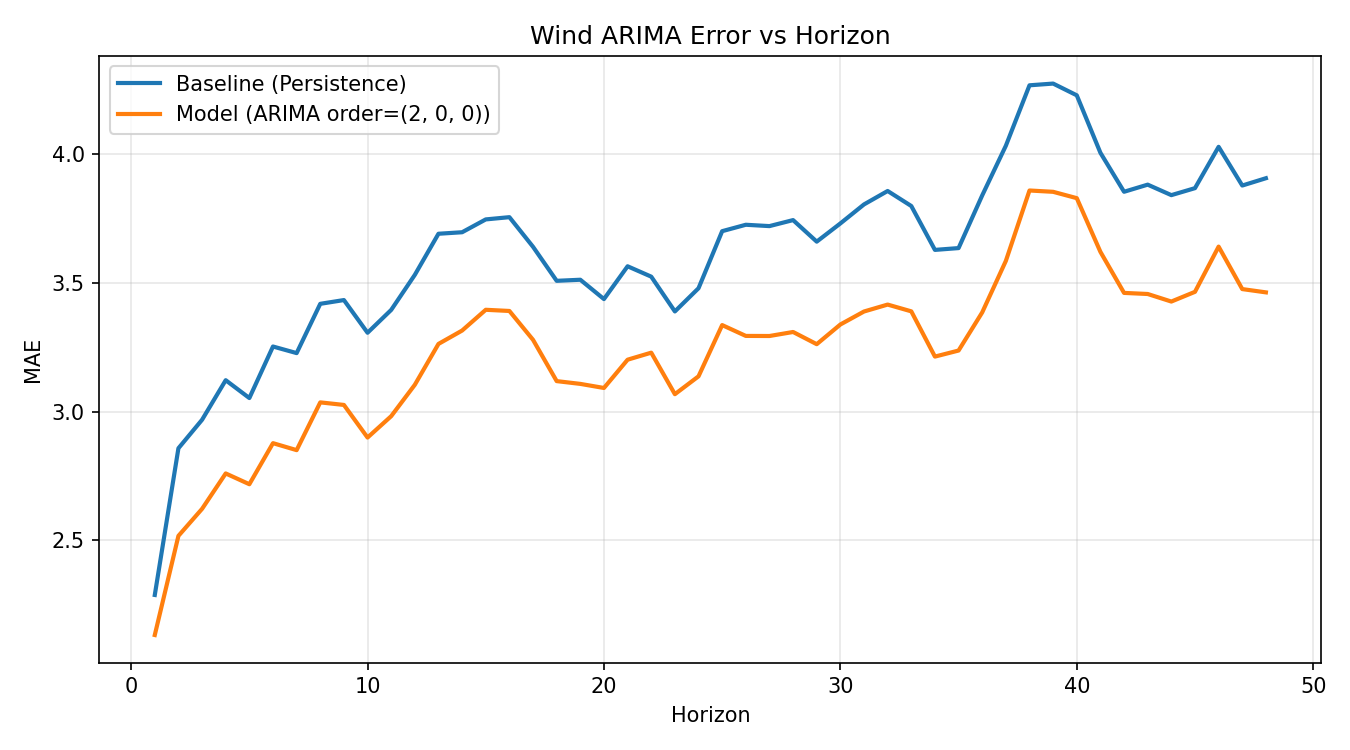
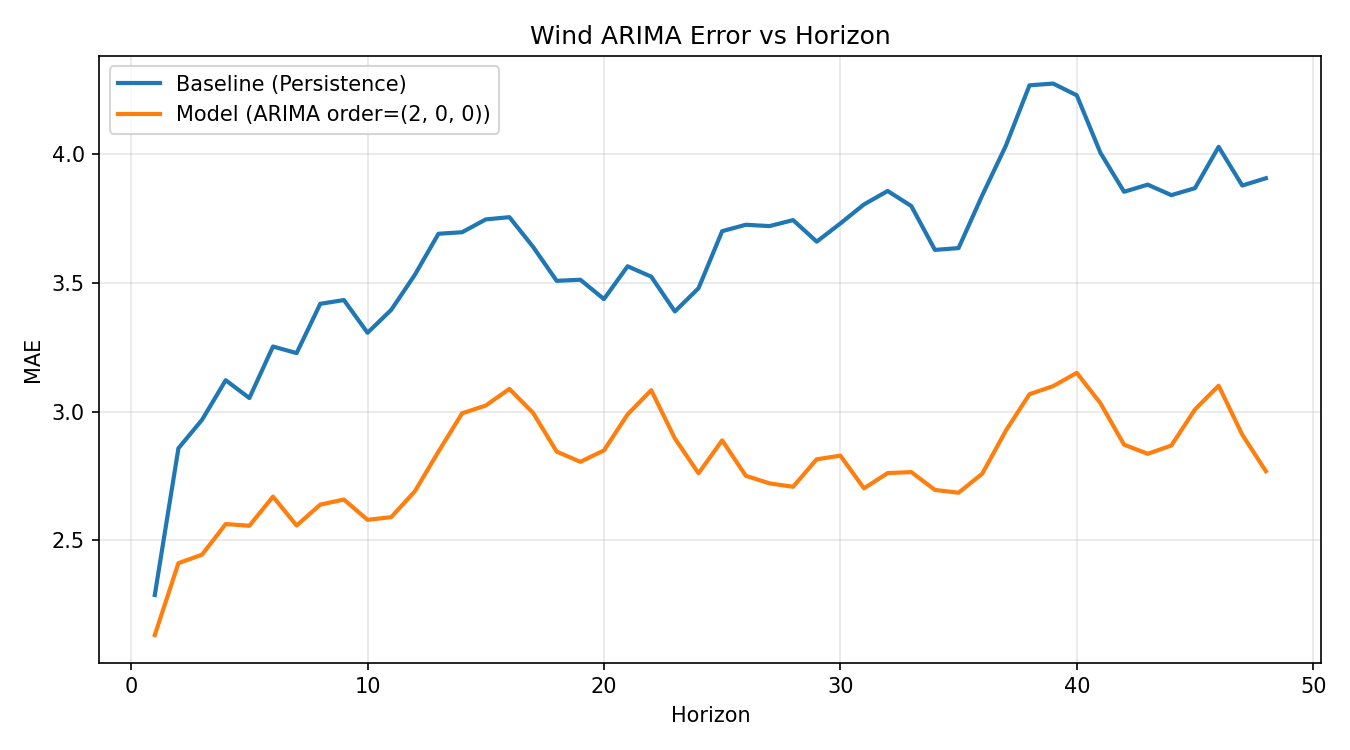
Fix wind ARIMA h-step alignment: forecast steps=h instead of steps=1
The wind ARIMA adapter called forecast(steps=1) at every horizon, so for h>1 a
1-step forecast was compared with the h-step target. Mirror the horizon-aligned
evaluation already used for traffic. Wind descriptors are unchanged
(H*(relax)=H*(strict)=48, [1,48], no sign changes); skill amplitude changes
(0.068-0.291 instead of 0.068-0.123). Results independently reproduced to 6e-10
in diagnostics/arima_wind_hstep.

diff --git a/experiments/wind_arima_canonical_predictability.py b/experiments/wind_arima_canonical_predictability.py
@@ -33,8 +33,9 @@ def load_wind_module():
 class ARIMAAdapter:
     """Drop-in replacement for the LightGBM estimator interface used in wind pipeline."""
 
-    def __init__(self, **kwargs):
+    def __init__(self, horizon=1, **kwargs):
         self._fitted = None
+        self.horizon = max(1, int(horizon))
 
     def fit(self, x_train, y_train):
         y = pd.Series(y_train).dropna().astype(float)
@@ -52,8 +53,46 @@ class ARIMAAdapter:
             raise ValueError("Model not fitted")
         with warnings.catch_warnings():
             warnings.simplefilter("ignore")
-            forecast = self._fitted.forecast(steps=1)
+            forecast = self._fitted.forecast(steps=self.horizon)
         return np.array([float(forecast.iloc[-1])])
+
+
+def _arima_factory_for_horizon(h: int):
+    def _factory(**kwargs):
+        return ARIMAAdapter(horizon=h, **kwargs)
+
+    return _factory
+
+
+def evaluate_horizon_aligned_arima(wind, series: pd.Series):
+    """Reuse canonical evaluator per horizon while injecting ARIMA with matching forecast step.
+
+    Mirrors evaluate_horizon_aligned_arima in traffic_arima_canonical_predictability.py.
+    Fixes a horizon-alignment bug in the original adapter, which always called
+    forecast(steps=1) regardless of h, so for h>1 it compared a 1-step-ahead
+    forecast against the true h-step-ahead target.
+    """
+    horizons_out = []
+    baseline_out = []
+    model_out = []
+
+    original_estimator = wind.LGBMRegressor
+    try:
+        for h in wind.HORIZONS:
+            h = int(h)
+            wind.LGBMRegressor = _arima_factory_for_horizon(h)
+            h_arr, baseline_h, model_h = wind.evaluate_rolling_origin_lightgbm(
+                series=series,
+                horizons=[h],
+                lags=wind.LAGS,
+            )
+            horizons_out.extend(h_arr.tolist())
+            baseline_out.extend(baseline_h.tolist())
+            model_out.extend(model_h.tolist())
+    finally:
+        wind.LGBMRegressor = original_estimator
+
+    return np.array(horizons_out), np.array(baseline_out), np.array(model_out)
 
 
 def compute_hstar_descriptors(horizons: np.ndarray, skill: np.ndarray):
@@ -101,14 +140,10 @@ def main():
 
     wind = load_wind_module()
 
-    # Canonical protocol reuse: swap model class only, keep evaluation function intact.
-    wind.LGBMRegressor = ARIMAAdapter
-
     series = wind.load_wind_series(wind.DATA_PATH)
-    horizons, baseline_mae, model_mae = wind.evaluate_rolling_origin_lightgbm(
+    horizons, baseline_mae, model_mae = evaluate_horizon_aligned_arima(
+        wind=wind,
         series=series,
-        horizons=wind.HORIZONS,
-        lags=wind.LAGS,
     )
 
     with np.errstate(divide="ignore", invalid="ignore"):
